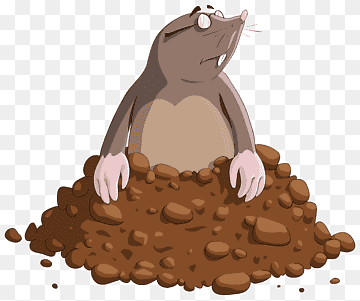
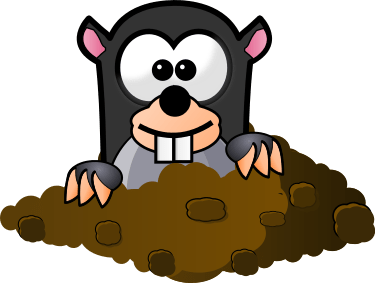
it's working

diff --git a/app.js b/app.js
@@ -1,0 +1,90 @@
+const container = document.querySelector('.game-container');
+const squares = document.querySelectorAll('.game-box');
+const mole = document.querySelector('.mole');
+const button = document.querySelector('.game-details_button');
+
+const score = document.querySelector('#score');
+const clock = document.querySelector('#clock');
+const display = document.querySelector('.display');
+
+
+let molePosition;
+let result = 0;
+let timer;
+let clockTime = 10;
+let clockTimeDown;
+
+function randomSquare() { // main function
+    squares.forEach((square) => {
+        const mole = square.querySelector('.mole')
+        if (mole) {
+            square.removeChild(mole)
+        };
+    })
+
+    createMole()
+}
+
+function createMole() { 
+    let randomMole = squares[Math.floor(Math.random() * 9)];
+    const newMole = document.createElement('div');
+    newMole.classList.add('mole');
+    randomMole.appendChild(newMole);
+
+    molePosition = randomMole.id
+    console.log(molePosition)
+}
+
+squares.forEach((square) => { // for updating score
+    square.addEventListener('mousedown', () => {
+        if (square.id == molePosition) {
+            result++;
+            score.textContent = "Score: " + result;
+            molePosition = null;
+        }
+    })
+})
+
+function moveMole() {
+    clearInterval(timer);
+    timer = setInterval(randomSquare, 1000);
+    countDown();
+}
+
+
+function countDown() {
+    // clockTimeDown = setInterval(countDown, 1000);
+    clearInterval(clockTimeDown);
+    clockTime = 10;
+    clock.textContent = "Time Left: " + clockTime;
+    
+    clockTimeDown = setInterval(() => {
+        clockTime--;
+        clock.textContent = "Time Left: " + clockTime;
+        
+
+        if (clockTime <= 0) {
+            clearInterval(timer);
+            clearInterval(clockTimeDown);
+            // alert('Game Dead');
+            display.textContent = "Your Final Score is: " + result;
+        }
+    }, 1000)
+        
+}
+// if (clockTime <= 0) {
+//     display.textContent = "Your Final Score is: " + result;
+//     clearInterval(timer);
+//     clearInterval(clockTimeDown);
+//     console.log('It is zero')
+// }
+
+button.addEventListener('click', () => {
+    result = 0;
+    score.textContent = "Score: ";
+    display.textContent = ""; // Clear the display
+
+
+
+    moveMole();
+});

diff --git a/index.html b/index.html
@@ -20,21 +20,30 @@
     </div>
 
     <div class="game-background">
-
         <div class="game-container">
-            <div class="game-box"></div>
-            <div class="game-box"></div>
-            <div class="game-box"></div>
+            <div class="game-box" id="1">
+                <div class="mole"></div>
+            </div>
+            <div class="game-box" id="2"></div>
+            <div class="game-box" id="3"></div>
 
-            <div class="game-box"></div>
-            <div class="game-box"></div>
-            <div class="game-box"></div>
+            <div class="game-box" id="4"></div>
+            <div class="game-box" id="5"></div>
+            <div class="game-box" id="6"></div>
 
-            <div class="game-box"></div>
-            <div class="game-box"></div>
-            <div class="game-box"></div>
+            <div class="game-box" id="7"></div>
+            <div class="game-box" id="8"></div>
+            <div class="game-box" id="9"></div>
+        </div>
+
+        <div class="game-details">
+            <div class="game-details_score" id="score">Score: </div>
+            <div class="game-details_time" id="clock">Time Left: </div>
+            <button class="game-details_button">Test</button>
+            <div class="display"></div>
         </div>
     </div>
+
 
 
     <script src="app.js"></script>

diff --git a/style.css b/style.css
@@ -63,6 +63,7 @@ h3 {
     background-position-y: bottom;
 
     display: flex;
+    flex-direction: column;
     justify-content: center;
     align-items: center;
 
@@ -94,4 +95,32 @@ h3 {
     background-repeat: no-repeat;
     background-color: transparent;
     background-position: center;
+
+    display: flex;
+    justify-content: center;
+}
+
+
+/*  Mole */
+
+.mole {
+    background-image: url(imgs/mole.png);
+    background-size: cover;
+    background-repeat: no-repeat;
+    background-position: center;
+    background-color: transparent;
+    width: 65%;
+    height: 65%;
+
+    /* padding: 1.5em; */
+    /* fix the padding later */
+}
+
+
+/* Game Details */
+
+.game-details_button {
+    padding: 1em 3em;
+    margin-top: 2em;
+    cursor: pointer;
 }

diff --git a/sample/app.js b/sample/app.js
@@ -11,7 +11,8 @@ let timerId = null;
 
 function randomSquare() {
     squares.forEach((square) => {
-        square.classList.remove('mole')
+        const mole = document.querySelector('.mole')
+        console.log(mole)
     })
 
     let randomSquare = squares[Math.floor(Math.random() * 9)];
